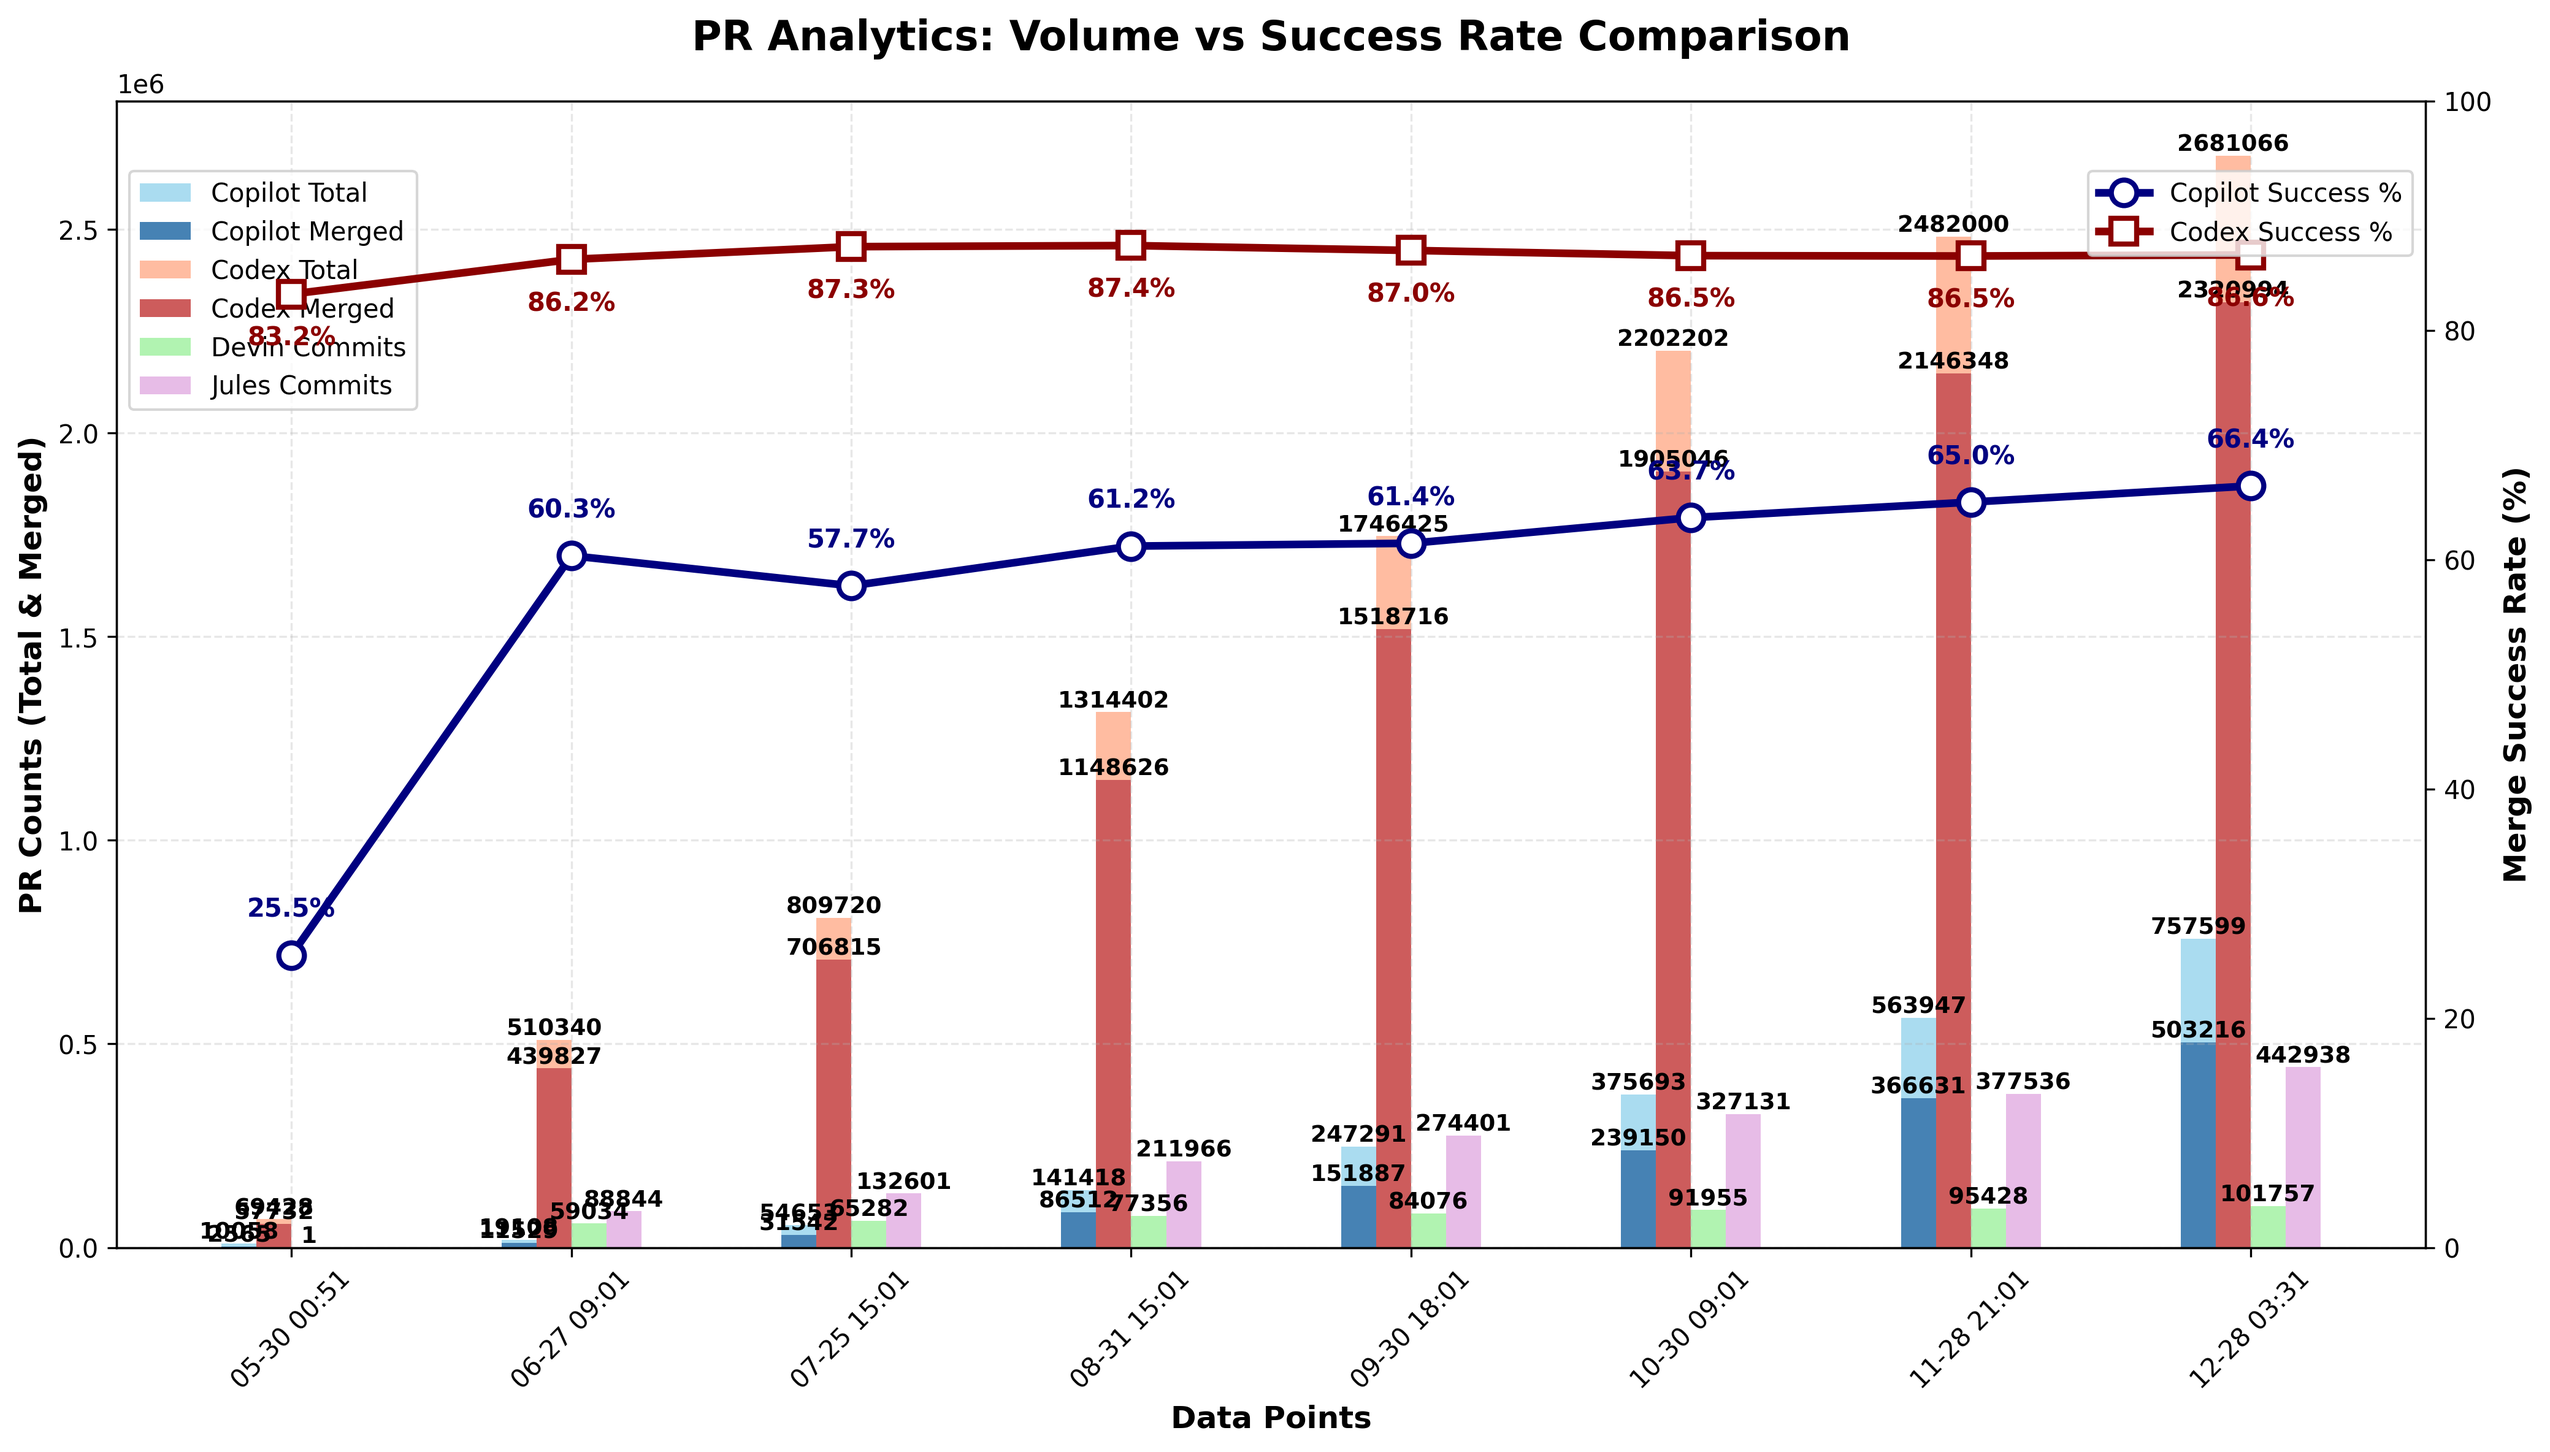
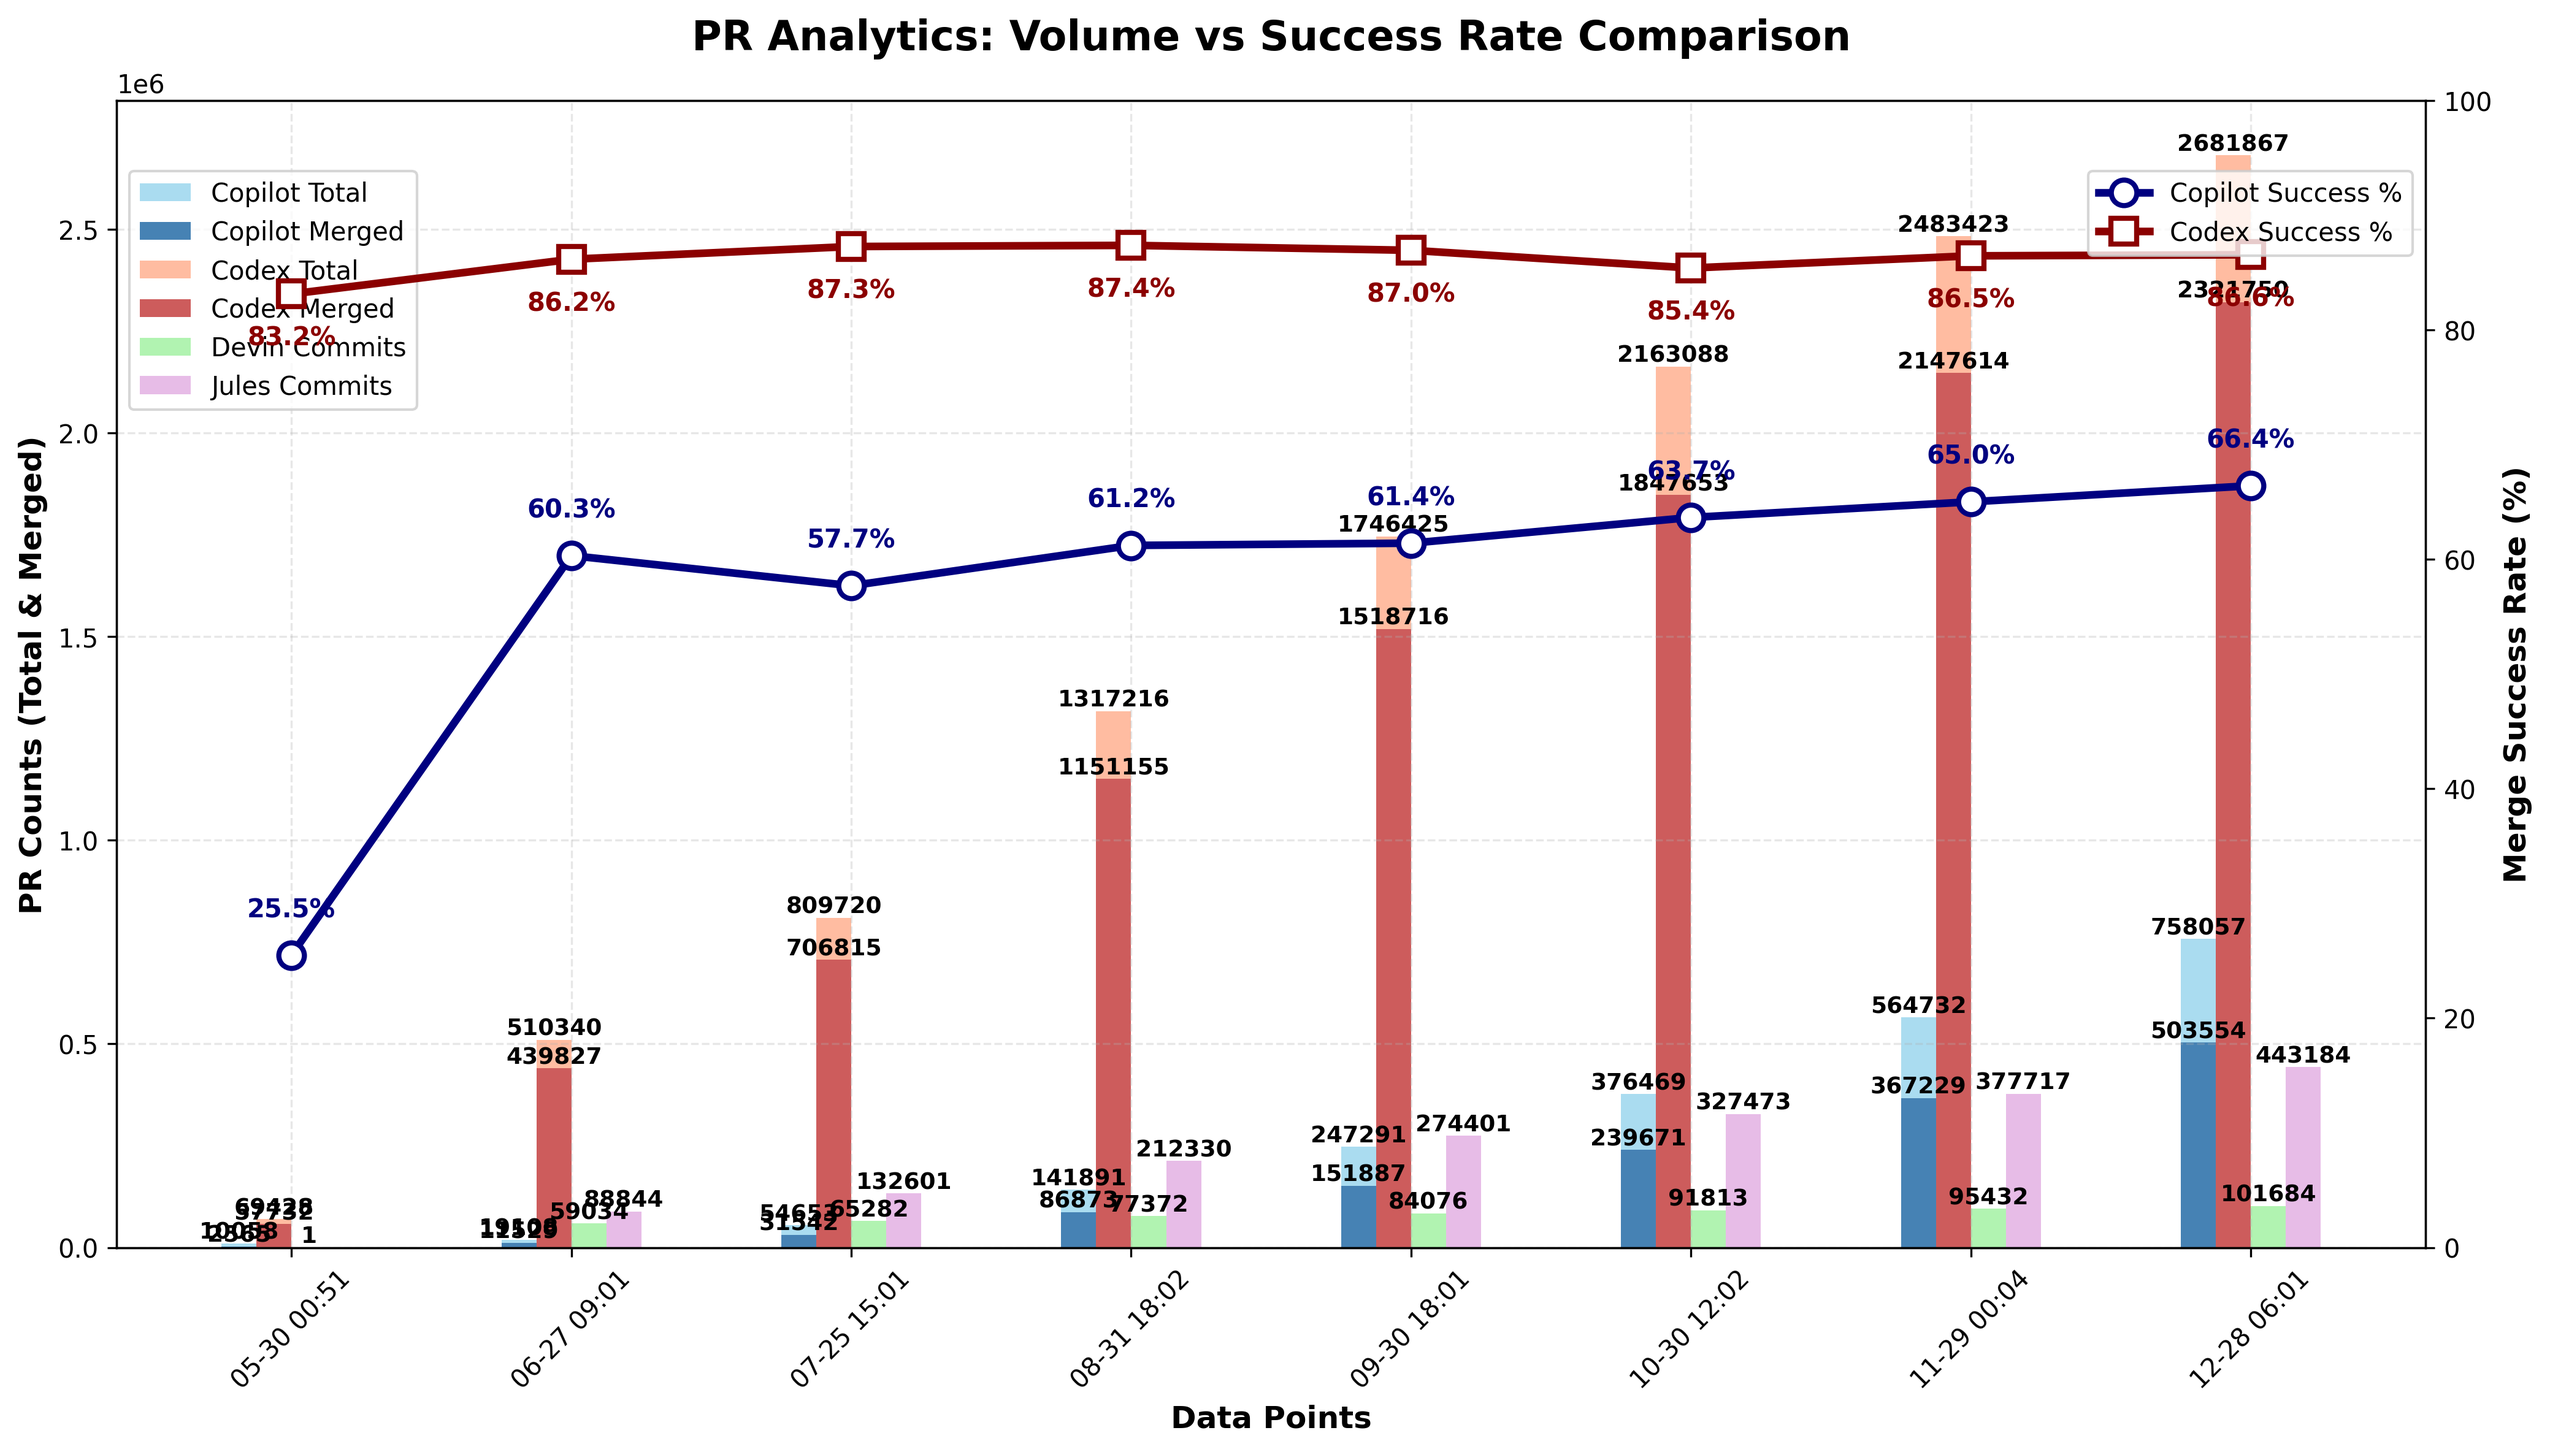
chore: update PR‑approval chart

diff --git a/docs/index.html b/docs/index.html
@@ -1632,6 +1632,7 @@
                         <td>N/A</td>
                         <td>N/A</td>
                         <td>N/A</td>
+                        <td>N/A</td>
                     </tr>
                     <tr>
                         <td>Codex</td>
@@ -3222,27 +3223,28 @@
                         <td>N/A</td>
                         <td>N/A</td>
                         <td>N/A</td>
+                        <td>N/A</td>
                     </tr>
                 <tr>
                         <td>Devin</td>
                         <td>N/A</td>
                         <td>N/A</td>
                         <td>N/A</td>
-                        <td>101,757</td>
+                        <td>101,684</td>
                     </tr>
                     <tr>
                         <td>Jules</td>
                         <td>N/A</td>
                         <td>N/A</td>
                         <td>N/A</td>
-                        <td>442,938</td>
+                        <td>443,184</td>
                     </tr>
                     </tbody>
             </table>
         </section>
 
         <footer>
-            <p>Last updated: <span id="last-updated">December 28, 2025 03:31 UTC</span></p>
+            <p>Last updated: <span id="last-updated">December 28, 2025 06:02 UTC</span></p>
             <p><a href="https://github.com/aavetis/ai-pr-watcher">View on GitHub</a></p>
         </footer>
     </div>

diff --git a/README.md b/README.md
@@ -19,7 +19,7 @@ Explore the GitHub search queries used:
 
 | Service | Total PRs | Merged PRs | Merge Rate | Total Commits |
 | ------- | --------- | ---------- | ---------- | ------------- |
-| Copilot | 757,599 | 503,216 | 66.42% | N/A           |
-| Codex   | 2,681,066 | 2,320,994 | 86.57% | N/A           |
-| Devin   | N/A       | N/A        | N/A        | 101,757 |
-| Jules   | N/A       | N/A        | N/A        | 442,938 |
+| Copilot | 758,057 | 503,554 | 66.43% | N/A           |
+| Codex   | 2,681,867 | 2,321,750 | 86.57% | N/A           |
+| Devin   | N/A       | N/A        | N/A        | 101,684 |
+| Jules   | N/A       | N/A        | N/A        | 443,184 |
